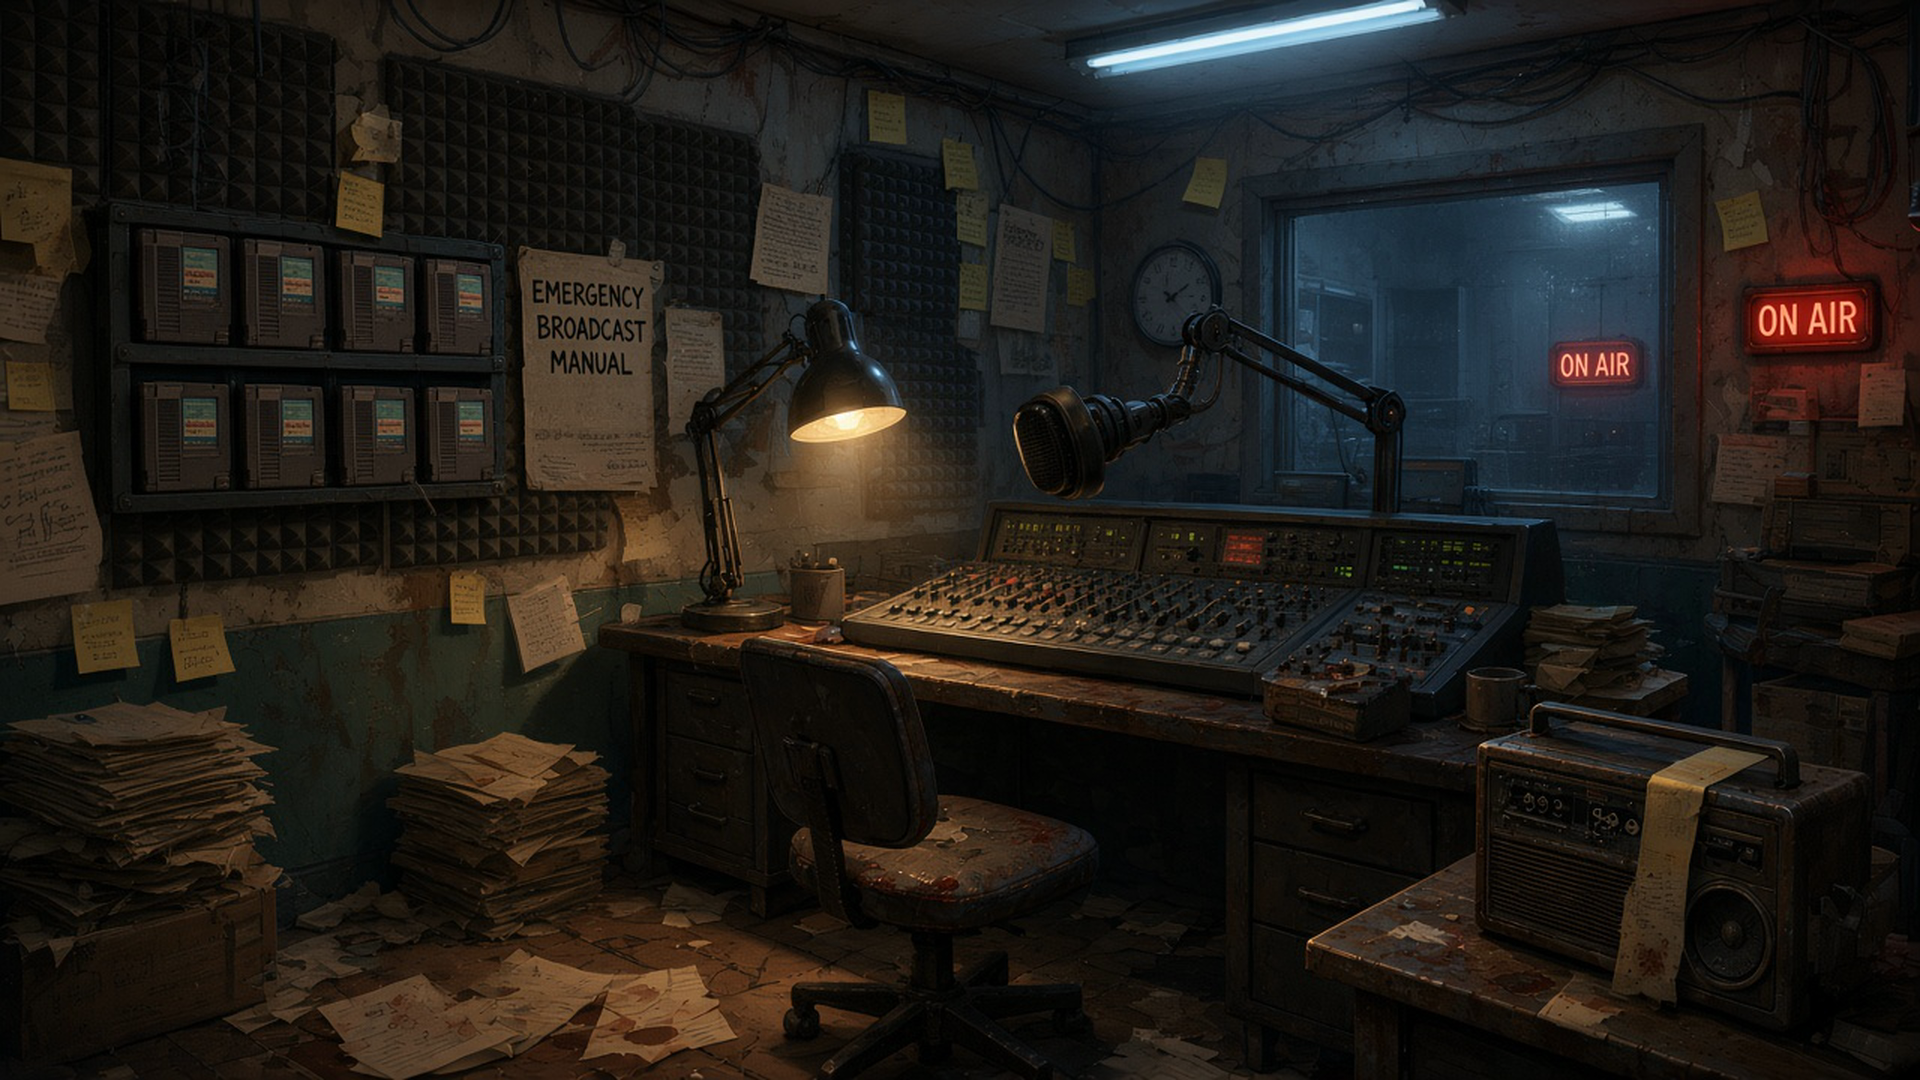
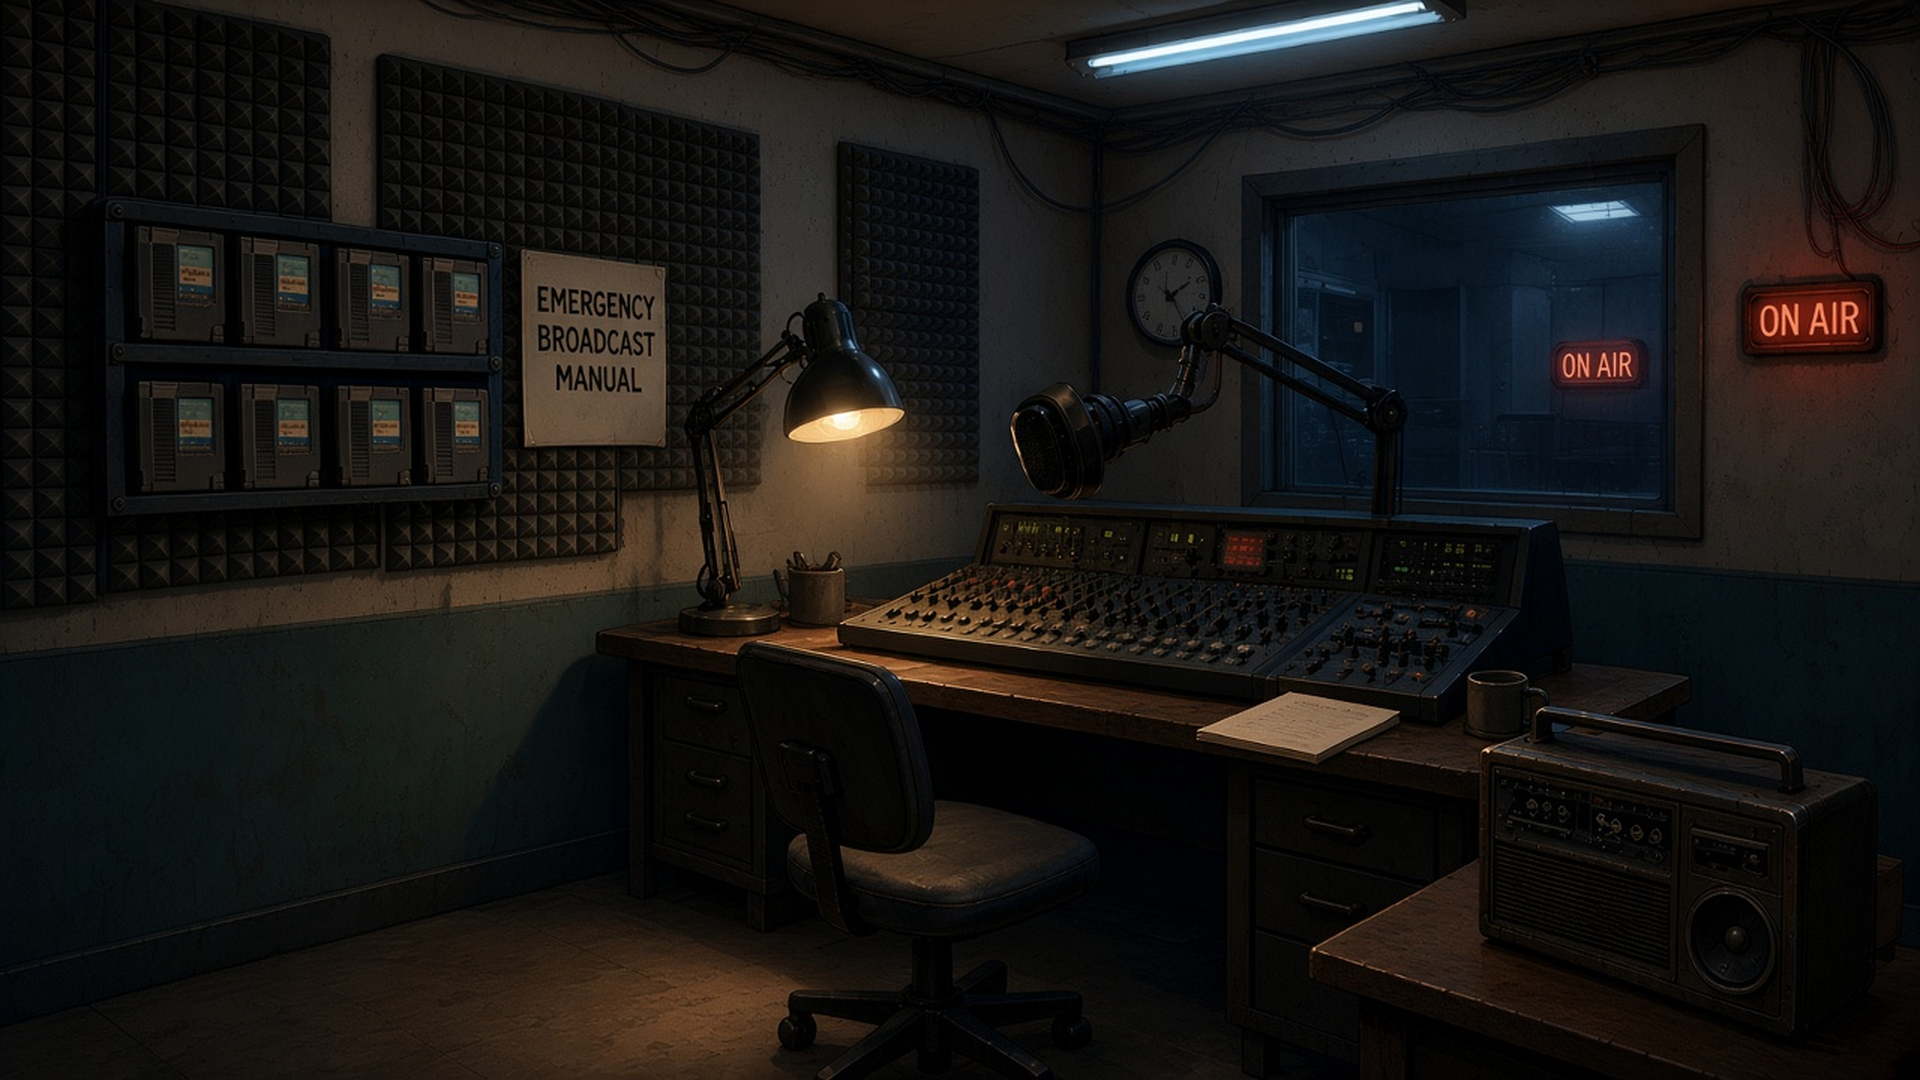
feat(haemu-radio): cleaner control and booth room backgrounds
Replace cluttered midnight-radio control/booth full-bleed art with tidier
broadcast-room paintings (same layout anchors). Retune % hit boxes for
coffee, envelope, booth door, radio, cart, and fader.

diff --git a/src/app/globals.css b/src/app/globals.css
@@ -567,45 +567,45 @@ html[data-radio-hits='show'] .radio-hit {
 }
 
 .radio-hit[data-hit='coffee'] {
-  left: 18%;
-  top: 78%;
-  width: 10%;
+  left: 20%;
+  top: 72%;
+  width: 9%;
   height: 16%;
 }
 
 .radio-hit[data-hit='envelope'] {
-  left: 28%;
-  top: 80%;
-  width: 13%;
-  height: 14%;
+  left: 34%;
+  top: 78%;
+  width: 12%;
+  height: 12%;
 }
 
 .radio-hit[data-hit='door'] {
   left: 70%;
-  top: 10%;
-  width: 16%;
-  height: 68%;
+  top: 12%;
+  width: 14%;
+  height: 66%;
 }
 
 /* Booth (rooms/booth.png) */
 .radio-hit[data-hit='radio'] {
-  left: 72%;
-  top: 55%;
-  width: 18%;
-  height: 30%;
+  left: 74%;
+  top: 58%;
+  width: 16%;
+  height: 28%;
 }
 
 .radio-hit[data-hit='cart'] {
   left: 2%;
-  top: 16%;
-  width: 14%;
-  height: 42%;
+  top: 18%;
+  width: 16%;
+  height: 40%;
 }
 
 .radio-hit[data-hit='fader'] {
-  left: 34%;
+  left: 36%;
   top: 48%;
-  width: 26%;
+  width: 28%;
   height: 22%;
 }
 

diff --git a/public/themes/haemu-radio/CREDITS.md b/public/themes/haemu-radio/CREDITS.md
@@ -11,8 +11,8 @@
 
 | 파일 | 내용 | 출처 | 비고 |
 |---|---|---|---|
-| `rooms/control.png` | 부조정실 풀블리드 페인티드 BG (1920×1080) | 원작 일러스트 | R-BG-02. 밤·책상램프·ON AIR·창밖 등대 |
-| `rooms/booth.png` | 부스 풀블리드 페인티드 BG (1920×1080) | 원작 일러스트 | R-BG-03. 콘솔·마이크·탁상 라디오·카트리지 랙·빈 DJ 의자 |
+| `rooms/control.png` | 부조정실 풀블리드 페인티드 BG (1920×1080) | 원작 일러스트 | R-BG-02. 밤·책상램프·ON AIR·창밖 등대. 정리된 방송실(쓰레기·얼룩 줄임) |
+| `rooms/booth.png` | 부스 풀블리드 페인티드 BG (1920×1080) | 원작 일러스트 | R-BG-03. 콘솔·마이크·탁상 라디오·카트리지 랙·빈 DJ 의자. 정리된 심야 부스 |
 | `rooms/desk.png` | 작가석 풀블리드 페인티드 BG (1920×1080) | 원작 일러스트 | R-BG-05. 원고 보드 4칸·사연함·책상램프·코르크보드 |
 | `rooms/archive.png` | 아카이브실 풀블리드 페인티드 BG (1920×1080) | 원작 일러스트 | R-BG-06. 테이프 선반·데크·무전기·따뜻한 펜던트 램프 |
 | `rooms/roof.png` | 옥상 풀블리드 페인티드 BG (1920×1080) | 원작 일러스트 | R-BG-08. 안개·송신기·빨간 경고등·문 빛 Spill |
